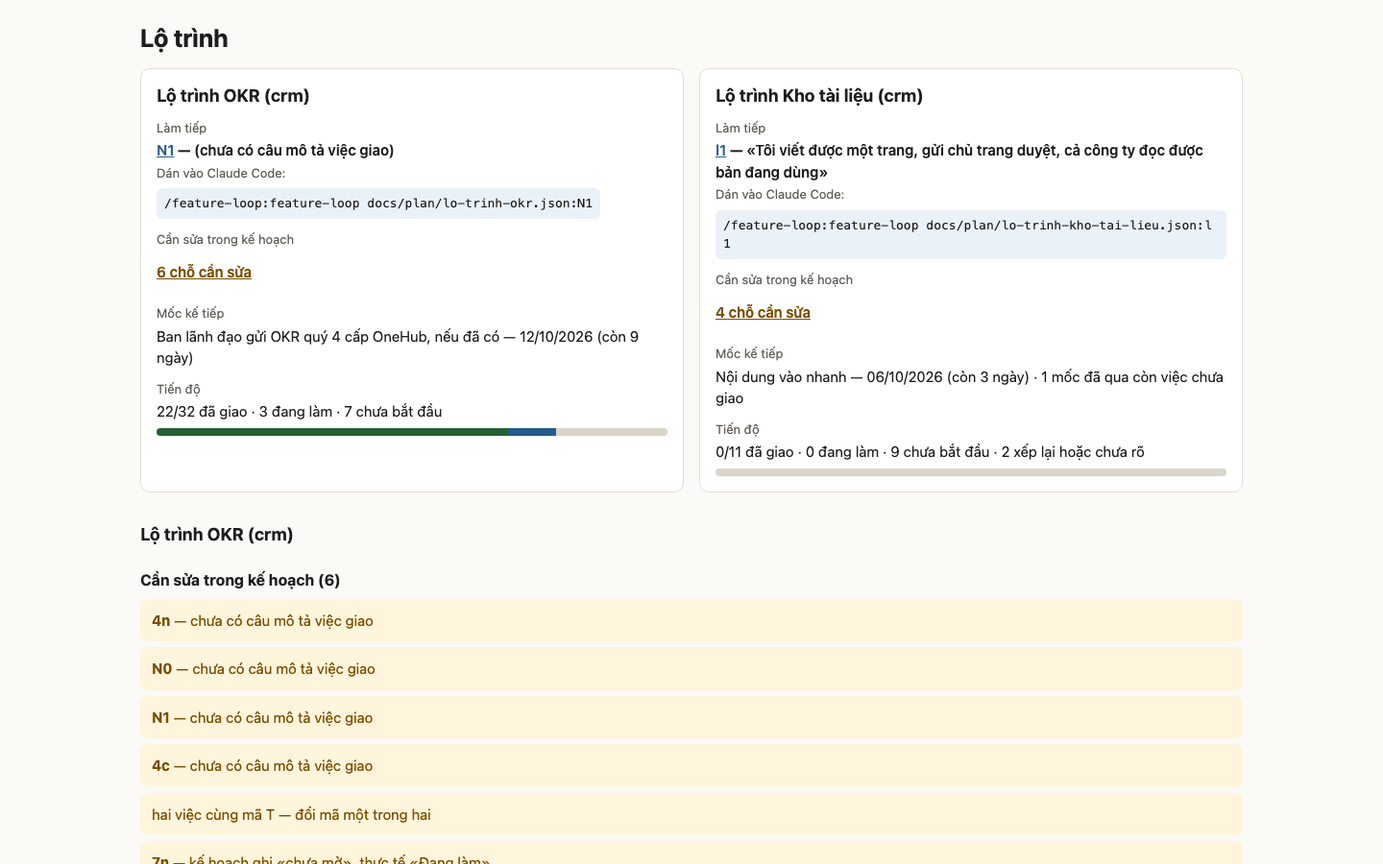
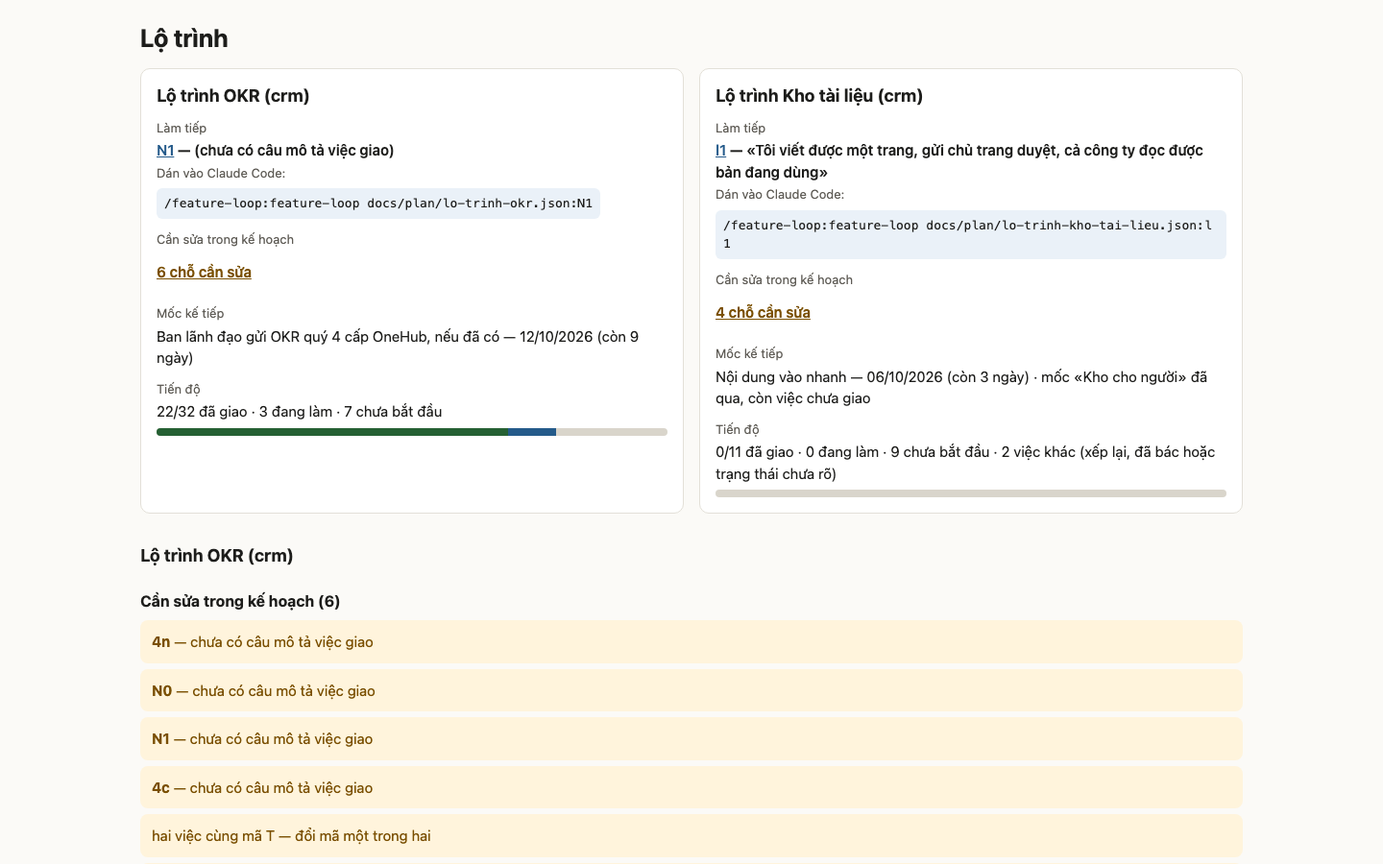
fix(lo-trinh): lượt chấm 2 — hàng kế cùng luật lớp phân tích, mốc đã qua nêu tên, ngày mốc lạ giữ chữ dự phòng, nhóm tiến độ khác ghi rõ

diff --git a/_acceptance/trang-lo-trinh-doc-mot-phut/mau/hai-lo-trinh.html b/_acceptance/trang-lo-trinh-doc-mot-phut/mau/hai-lo-trinh.html
@@ -48,7 +48,7 @@ tr{border:1px solid var(--ln);border-radius:10px;margin:10px 0;padding:6px 0;bac
 <div class="o"><span class="nhan">Làm tiếp</span><span class="ke"><a href="#lt2-h-l1">l1</a> — «Tôi viết được một trang, gửi chủ trang duyệt, cả công ty đọc được bản đang dùng»</span><br><span class="mu nho">Dán vào Claude Code:</span> <span class="lenh">/feature-loop:feature-loop docs/plan/lo-trinh-kho-tai-lieu.json:l1</span></div>
 <div class="o so-co"><span class="nhan">Cần sửa trong kế hoạch</span><a href="#lt2-co">4 chỗ cần sửa</a></div>
 <div class="o"><span class="nhan">Mốc kế tiếp</span><span id="lt2-moc-ke">Xem dải mốc bên dưới.</span></div>
-<div class="o"><span class="nhan">Tiến độ</span>0/11 đã giao · 0 đang làm · 9 chưa bắt đầu · 2 xếp lại hoặc chưa rõ<div class="thanh" aria-hidden="true"><i class="g" style="width:0.0%"></i><i class="l" style="width:0.0%"></i></div></div>
+<div class="o"><span class="nhan">Tiến độ</span>0/11 đã giao · 0 đang làm · 9 chưa bắt đầu · 2 việc khác (xếp lại, đã bác hoặc trạng thái chưa rõ)<div class="thanh" aria-hidden="true"><i class="g" style="width:0.0%"></i><i class="l" style="width:0.0%"></i></div></div>
 </section></div>
 <section id="lt1"><h2>Lộ trình OKR (crm)</h2>
 <h3 id="lt1-co">Cần sửa trong kế hoạch (6)</h3><ul class="co-ds"><li><a href="#lt1-h-4n"><b>4n</b> — chưa có câu mô tả việc giao</a></li><li><a href="#lt1-h-N0"><b>N0</b> — chưa có câu mô tả việc giao</a></li><li><a href="#lt1-h-N1"><b>N1</b> — chưa có câu mô tả việc giao</a></li><li><a href="#lt1-h-4c"><b>4c</b> — chưa có câu mô tả việc giao</a></li><li><span>hai việc cùng mã T — đổi mã một trong hai</span></li><li><a href="#lt1-h-7n"><b>7n</b> — kế hoạch ghi «chưa mở», thực tế «Đang làm»</a></li></ul>
@@ -113,7 +113,7 @@ tr{border:1px solid var(--ln);border-radius:10px;margin:10px 0;padding:6px 0;bac
 <details><summary>132 hồ sơ không thuộc kế hoạch nào</summary><p class="mu nho">Sửa lỗi, sự cố, việc giao thẳng — hợp lệ, liệt kê để đủ.</p><ul><li><code>ho-so-ngoai-001</code></li><li><code>ho-so-ngoai-002</code></li><li><code>ho-so-ngoai-003</code></li><li><code>ho-so-ngoai-004</code></li><li><code>ho-so-ngoai-005</code></li><li><code>ho-so-ngoai-006</code></li><li><code>ho-so-ngoai-007</code></li><li><code>ho-so-ngoai-008</code></li><li><code>ho-so-ngoai-009</code></li><li><code>ho-so-ngoai-010</code></li><li><code>ho-so-ngoai-011</code></li><li><code>ho-so-ngoai-012</code></li><li><code>ho-so-ngoai-013</code></li><li><code>ho-so-ngoai-014</code></li><li><code>ho-so-ngoai-015</code></li><li><code>ho-so-ngoai-016</code></li><li><code>ho-so-ngoai-017</code></li><li><code>ho-so-ngoai-018</code></li><li><code>ho-so-ngoai-019</code></li><li><code>ho-so-ngoai-020</code></li><li><code>ho-so-ngoai-021</code></li><li><code>ho-so-ngoai-022</code></li><li><code>ho-so-ngoai-023</code></li><li><code>ho-so-ngoai-024</code></li><li><code>ho-so-ngoai-025</code></li><li><code>ho-so-ngoai-026</code></li><li><code>ho-so-ngoai-027</code></li><li><code>ho-so-ngoai-028</code></li><li><code>ho-so-ngoai-029</code></li><li><code>ho-so-ngoai-030</code></li><li><code>ho-so-ngoai-031</code></li><li><code>ho-so-ngoai-032</code></li><li><code>ho-so-ngoai-033</code></li><li><code>ho-so-ngoai-034</code></li><li><code>ho-so-ngoai-035</code></li><li><code>ho-so-ngoai-036</code></li><li><code>ho-so-ngoai-037</code></li><li><code>ho-so-ngoai-038</code></li><li><code>ho-so-ngoai-039</code></li><li><code>ho-so-ngoai-040</code></li><li><code>ho-so-ngoai-041</code></li><li><code>ho-so-ngoai-042</code></li><li><code>ho-so-ngoai-043</code></li><li><code>ho-so-ngoai-044</code></li><li><code>ho-so-ngoai-045</code></li><li><code>ho-so-ngoai-046</code></li><li><code>ho-so-ngoai-047</code></li><li><code>ho-so-ngoai-048</code></li><li><code>ho-so-ngoai-049</code></li><li><code>ho-so-ngoai-050</code></li><li><code>ho-so-ngoai-051</code></li><li><code>ho-so-ngoai-052</code></li><li><code>ho-so-ngoai-053</code></li><li><code>ho-so-ngoai-054</code></li><li><code>ho-so-ngoai-055</code></li><li><code>ho-so-ngoai-056</code></li><li><code>ho-so-ngoai-057</code></li><li><code>ho-so-ngoai-058</code></li><li><code>ho-so-ngoai-059</code></li><li><code>ho-so-ngoai-060</code></li><li><code>ho-so-ngoai-061</code></li><li><code>ho-so-ngoai-062</code></li><li><code>ho-so-ngoai-063</code></li><li><code>ho-so-ngoai-064</code></li><li><code>ho-so-ngoai-065</code></li><li><code>ho-so-ngoai-066</code></li><li><code>ho-so-ngoai-067</code></li><li><code>ho-so-ngoai-068</code></li><li><code>ho-so-ngoai-069</code></li><li><code>ho-so-ngoai-070</code></li><li><code>ho-so-ngoai-071</code></li><li><code>ho-so-ngoai-072</code></li><li><code>ho-so-ngoai-073</code></li><li><code>ho-so-ngoai-074</code></li><li><code>ho-so-ngoai-075</code></li><li><code>ho-so-ngoai-076</code></li><li><code>ho-so-ngoai-077</code></li><li><code>ho-so-ngoai-078</code></li><li><code>ho-so-ngoai-079</code></li><li><code>ho-so-ngoai-080</code></li><li><code>ho-so-ngoai-081</code></li><li><code>ho-so-ngoai-082</code></li><li><code>ho-so-ngoai-083</code></li><li><code>ho-so-ngoai-084</code></li><li><code>ho-so-ngoai-085</code></li><li><code>ho-so-ngoai-086</code></li><li><code>ho-so-ngoai-087</code></li><li><code>ho-so-ngoai-088</code></li><li><code>ho-so-ngoai-089</code></li><li><code>ho-so-ngoai-090</code></li><li><code>ho-so-ngoai-091</code></li><li><code>ho-so-ngoai-092</code></li><li><code>ho-so-ngoai-093</code></li><li><code>ho-so-ngoai-094</code></li><li><code>ho-so-ngoai-095</code></li><li><code>ho-so-ngoai-096</code></li><li><code>ho-so-ngoai-097</code></li><li><code>ho-so-ngoai-098</code></li><li><code>ho-so-ngoai-099</code></li><li><code>ho-so-ngoai-100</code></li><li><code>ho-so-ngoai-101</code></li><li><code>ho-so-ngoai-102</code></li><li><code>ho-so-ngoai-103</code></li><li><code>ho-so-ngoai-104</code></li><li><code>ho-so-ngoai-105</code></li><li><code>ho-so-ngoai-106</code></li><li><code>ho-so-ngoai-107</code></li><li><code>ho-so-ngoai-108</code></li><li><code>ho-so-ngoai-109</code></li><li><code>ho-so-ngoai-110</code></li><li><code>ho-so-ngoai-111</code></li><li><code>ho-so-ngoai-112</code></li><li><code>ho-so-ngoai-113</code></li><li><code>ho-so-ngoai-114</code></li><li><code>ho-so-ngoai-115</code></li><li><code>ho-so-ngoai-116</code></li><li><code>ho-so-ngoai-117</code></li><li><code>ho-so-ngoai-118</code></li><li><code>ho-so-ngoai-119</code></li><li><code>ho-so-ngoai-120</code></li><li><code>ho-so-ngoai-121</code></li><li><code>ho-so-ngoai-122</code></li><li><code>ho-so-ngoai-123</code></li><li><code>ho-so-ngoai-124</code></li><li><code>ho-so-ngoai-125</code></li><li><code>ho-so-ngoai-126</code></li><li><code>ho-so-ngoai-127</code></li><li><code>ho-so-ngoai-128</code></li><li><code>ho-so-ngoai-129</code></li><li><code>ho-so-ngoai-130</code></li><li><code>ho-so-ngoai-131</code></li><li><code>ho-so-ngoai-132</code></li></ul></details>
 </main>
 <script>(function(){var d=new Date();var h=Date.UTC(d.getFullYear(),d.getMonth(),d.getDate());
-document.querySelectorAll('ol.moc').forEach(function(ol){var ke=null;var tre=0;ol.querySelectorAll('li[data-ngay]').forEach(function(li){var p=li.getAttribute('data-ngay').split('-');var t=Date.UTC(+p[0],+p[1]-1,+p[2]);var n=Math.round((t-h)/864e5);var s=li.querySelector('.con');if(isNaN(n))return;if(n<0){if(li.hasAttribute('data-con-viec')){tre++;li.classList.add('tre');if(s)s.textContent='đã qua — còn việc chưa giao';}else{li.classList.add('qua');if(s)s.textContent='đã qua';}}else{if(s)s.textContent=n===0?'hôm nay':'còn '+n+' ngày';if(!ke){ke=li;li.classList.add('ke-tiep');}}});
-var o=document.getElementById(ol.getAttribute('data-the'));if(o){o.textContent=(ke?ke.getAttribute('data-ten')+' — '+ke.getAttribute('data-ngay').split('-').reverse().join('/')+' ('+ke.querySelector('.con').textContent+')':'Không còn mốc nào phía trước.')+(tre?' · '+tre+' mốc đã qua còn việc chưa giao':'');}});})();</script>
+document.querySelectorAll('ol.moc').forEach(function(ol){var ke=null;var tre=[];var hong=0;ol.querySelectorAll('li[data-ngay]').forEach(function(li){var p=li.getAttribute('data-ngay').split('-');var t=Date.UTC(+p[0],+p[1]-1,+p[2]);var n=Math.round((t-h)/864e5);var s=li.querySelector('.con');if(p.length!==3||isNaN(n)){hong++;return;}if(n<0){if(li.hasAttribute('data-con-viec')){tre.push(li.getAttribute('data-ten'));li.classList.add('tre');if(s)s.textContent='đã qua — còn việc chưa giao';}else{li.classList.add('qua');if(s)s.textContent='đã qua';}}else{if(s)s.textContent=n===0?'hôm nay':'còn '+n+' ngày';if(!ke){ke=li;li.classList.add('ke-tiep');}}});
+var o=document.getElementById(ol.getAttribute('data-the'));if(!o||(!ke&&hong))return;o.textContent=(ke?ke.getAttribute('data-ten')+' — '+ke.getAttribute('data-ngay').split('-').reverse().join('/')+' ('+ke.querySelector('.con').textContent+')':'Không còn mốc nào phía trước.')+(tre.length===1?' · mốc «'+tre[0]+'» đã qua, còn việc chưa giao':tre.length?' · '+tre.length+' mốc đã qua còn việc chưa giao (sớm nhất: «'+tre[0]+'»)':'');});})();</script>
 </body>
 </html>

diff --git a/_acceptance/viec-ke-theo-plan/mau/lo-trinh-crm-okr.html b/_acceptance/viec-ke-theo-plan/mau/lo-trinh-crm-okr.html
@@ -88,7 +88,7 @@ tr{border:1px solid var(--ln);border-radius:10px;margin:10px 0;padding:6px 0;bac
 <p class="mu nho">Vẽ từ <code>docs/plan/lo-trinh-okr.json</code> và hồ sơ nghiệm thu; máy vẽ lại mỗi lần một cổng nghiệm thu đóng, trạng thái từng hàng lấy từ hồ sơ, không gõ tay. Đổi kế hoạch bằng PR vào tệp kế hoạch.</p>
 </main>
 <script>(function(){var d=new Date();var h=Date.UTC(d.getFullYear(),d.getMonth(),d.getDate());
-document.querySelectorAll('ol.moc').forEach(function(ol){var ke=null;var tre=0;ol.querySelectorAll('li[data-ngay]').forEach(function(li){var p=li.getAttribute('data-ngay').split('-');var t=Date.UTC(+p[0],+p[1]-1,+p[2]);var n=Math.round((t-h)/864e5);var s=li.querySelector('.con');if(isNaN(n))return;if(n<0){if(li.hasAttribute('data-con-viec')){tre++;li.classList.add('tre');if(s)s.textContent='đã qua — còn việc chưa giao';}else{li.classList.add('qua');if(s)s.textContent='đã qua';}}else{if(s)s.textContent=n===0?'hôm nay':'còn '+n+' ngày';if(!ke){ke=li;li.classList.add('ke-tiep');}}});
-var o=document.getElementById(ol.getAttribute('data-the'));if(o){o.textContent=(ke?ke.getAttribute('data-ten')+' — '+ke.getAttribute('data-ngay').split('-').reverse().join('/')+' ('+ke.querySelector('.con').textContent+')':'Không còn mốc nào phía trước.')+(tre?' · '+tre+' mốc đã qua còn việc chưa giao':'');}});})();</script>
+document.querySelectorAll('ol.moc').forEach(function(ol){var ke=null;var tre=[];var hong=0;ol.querySelectorAll('li[data-ngay]').forEach(function(li){var p=li.getAttribute('data-ngay').split('-');var t=Date.UTC(+p[0],+p[1]-1,+p[2]);var n=Math.round((t-h)/864e5);var s=li.querySelector('.con');if(p.length!==3||isNaN(n)){hong++;return;}if(n<0){if(li.hasAttribute('data-con-viec')){tre.push(li.getAttribute('data-ten'));li.classList.add('tre');if(s)s.textContent='đã qua — còn việc chưa giao';}else{li.classList.add('qua');if(s)s.textContent='đã qua';}}else{if(s)s.textContent=n===0?'hôm nay':'còn '+n+' ngày';if(!ke){ke=li;li.classList.add('ke-tiep');}}});
+var o=document.getElementById(ol.getAttribute('data-the'));if(!o||(!ke&&hong))return;o.textContent=(ke?ke.getAttribute('data-ten')+' — '+ke.getAttribute('data-ngay').split('-').reverse().join('/')+' ('+ke.querySelector('.con').textContent+')':'Không còn mốc nào phía trước.')+(tre.length===1?' · mốc «'+tre[0]+'» đã qua, còn việc chưa giao':tre.length?' · '+tre.length+' mốc đã qua còn việc chưa giao (sớm nhất: «'+tre[0]+'»)':'');});})();</script>
 </body>
 </html>

diff --git a/_acceptance/trang-lo-trinh-doc-mot-phut/evidence-report.md b/_acceptance/trang-lo-trinh-doc-mot-phut/evidence-report.md
@@ -1,19 +1,19 @@
 ---
 schema_version: 2
 feature_slug: trang-lo-trinh-doc-mot-phut
-verdict: PENDING-JUDGMENT
+verdict: REJECT
 failed_evals: []
 reason:
 verified_by: fresh-context verification subagent
 enforcement_mode: strict
 bypass_used: false
-verified_commit: 7116c022e703872d17339f003f089ed132935749
+verified_commit: 9fc6f5c027ab7182e97512519fd09222a11c41ee
 human_signoff:
 ---
 
 # Evidence Report: trang-lo-trinh-doc-mot-phut
 
-Tất cả eval máy đều xanh. Còn một mục judgment (E11) hội đồng đề xuất không đạt và một thành viên chưa chắc, nên người quyết ở Cổng 2.
+Lượt chấm 2. Không eval máy nào đỏ (13 eval máy xanh, 10 lệnh suite xanh), nên `failed_evals` để trống. Verdict là REJECT vì bốn finding trong hợp đồng chưa đóng: ba finding nói E5 ghim dòng «PASS: LT-94» mà lệnh của nó không bao giờ in ra (vế tĩnh của AC-5 chưa có bằng chứng máy, dù E5 xanh nhờ bảy ca LTT), và một finding nói liên kết «Làm tiếp» vẫn có thể trỏ nhầm hàng khi hai hàng trùng mã. E11 (judgment) vẫn chưa ai chốt. Chi tiết ở `review-findings.md`.
 
 | Eval | Criterion | Executor | Verdict |
 |---|---|---|---|
@@ -28,217 +28,218 @@ Tất cả eval máy đều xanh. Còn một mục judgment (E11) hội đồng 
 | E8b | AC-8 | test | PASS |
 | E9 | AC-9 | test | PASS |
 | E10 | AC-10 | test | PASS |
-| E11 | AC-11 | judgment | PENDING-JUDGMENT |
+| E11 | AC-11 | judgment | UNCERTAIN |
 | E11b | AC-11 | test | PASS |
 | E12 | AC-12 | test | PASS |
+
+Ghi chú về E5: bảng ghi PASS theo kết quả lệnh. Nhưng lệnh của E5 chạy bộ `xem-trang-lo-trinh` chỉ in các dòng LTT, còn dòng ghim «PASS: LT-94» (vế tĩnh của AC-5) nằm ở bộ `lo-trinh`. Vì vậy PASS này chưa phủ vế tĩnh; xem finding trong hợp đồng AC-5.
 
 ## Evidence
 
 - eval: E1
-  run_id: minted-trang-lo-trinh-doc-mot-phut-E1-r1
+  run_id: minted-trang-lo-trinh-doc-mot-phut-E1-r2
   exit_code: 0
   baseline: green
   verifier: config:executors.test.lo_trinh
-  verified_at: 2026-10-03T15:50:54Z
+  verified_at: 2026-10-03T16:29:05Z
   output: |
     node tests/scripts/lo-trinh.test.mjs
     Results: 140 passed, 0 failed (lo-trinh)
 
 - eval: E2
-  run_id: minted-trang-lo-trinh-doc-mot-phut-E2-r1
+  run_id: minted-trang-lo-trinh-doc-mot-phut-E2-r2
   exit_code: 0
   baseline: green
   verifier: config:executors.test.lo_trinh
-  verified_at: 2026-10-03T15:50:54Z
+  verified_at: 2026-10-03T16:29:05Z
   output: |
     node tests/scripts/lo-trinh.test.mjs
     Results: 140 passed, 0 failed (lo-trinh)
 
 - eval: E3
-  run_id: minted-trang-lo-trinh-doc-mot-phut-E3-r1
+  run_id: minted-trang-lo-trinh-doc-mot-phut-E3-r2
   exit_code: 0
   baseline: green
   verifier: config:executors.test.lo_trinh
-  verified_at: 2026-10-03T15:50:54Z
+  verified_at: 2026-10-03T16:29:05Z
   output: |
     node tests/scripts/lo-trinh.test.mjs
     Results: 140 passed, 0 failed (lo-trinh)
 
 - eval: E4
-  run_id: minted-trang-lo-trinh-doc-mot-phut-E4-r1
+  run_id: minted-trang-lo-trinh-doc-mot-phut-E4-r2
   exit_code: 0
   baseline: green
   verifier: config:executors.test.lo_trinh
-  verified_at: 2026-10-03T15:50:54Z
+  verified_at: 2026-10-03T16:29:05Z
   output: |
     node tests/scripts/lo-trinh.test.mjs
     Results: 140 passed, 0 failed (lo-trinh)
 
 - eval: E5
-  run_id: minted-trang-lo-trinh-doc-mot-phut-E5-r1
+  run_id: minted-trang-lo-trinh-doc-mot-phut-E5-r2
   exit_code: 0
   baseline: red
   verifier: config:executors.test.lo_trinh_trang
-  verified_at: 2026-10-03T15:50:54Z
+  verified_at: 2026-10-03T16:29:05Z
   output: |
     node tests/scripts/xem-trang-lo-trinh.test.mjs
     Results: 7 passed, 0 failed (xem-trang-lo-trinh)
 
 - eval: E6
-  run_id: minted-trang-lo-trinh-doc-mot-phut-E6-r1
+  run_id: minted-trang-lo-trinh-doc-mot-phut-E6-r2
   exit_code: 0
   baseline: green
   verifier: config:executors.test.lo_trinh
-  verified_at: 2026-10-03T15:50:54Z
+  verified_at: 2026-10-03T16:29:05Z
   output: |
     node tests/scripts/lo-trinh.test.mjs
     Results: 140 passed, 0 failed (lo-trinh)
 
 - eval: E7
-  run_id: minted-trang-lo-trinh-doc-mot-phut-E7-r1
+  run_id: minted-trang-lo-trinh-doc-mot-phut-E7-r2
   exit_code: 0
   baseline: red
   verifier: config:executors.test.lo_trinh_trang
-  verified_at: 2026-10-03T15:50:54Z
+  verified_at: 2026-10-03T16:29:05Z
   output: |
     node tests/scripts/xem-trang-lo-trinh.test.mjs
     Results: 7 passed, 0 failed (xem-trang-lo-trinh)
 
 - eval: E8
-  run_id: minted-trang-lo-trinh-doc-mot-phut-E8-r1
+  run_id: minted-trang-lo-trinh-doc-mot-phut-E8-r2
   exit_code: 0
   baseline: green
   verifier: config:executors.test.lo_trinh
-  verified_at: 2026-10-03T15:50:54Z
+  verified_at: 2026-10-03T16:29:05Z
   output: |
     node tests/scripts/lo-trinh.test.mjs
     Results: 140 passed, 0 failed (lo-trinh)
 
 - eval: E8b
-  run_id: minted-trang-lo-trinh-doc-mot-phut-E8b-r1
+  run_id: minted-trang-lo-trinh-doc-mot-phut-E8b-r2
   exit_code: 0
   baseline: red
   verifier: config:executors.test.lo_trinh_trang
-  verified_at: 2026-10-03T15:50:54Z
+  verified_at: 2026-10-03T16:29:05Z
   output: |
     node tests/scripts/xem-trang-lo-trinh.test.mjs
     Results: 7 passed, 0 failed (xem-trang-lo-trinh)
 
 - eval: E9
-  run_id: minted-trang-lo-trinh-doc-mot-phut-E9-r1
+  run_id: minted-trang-lo-trinh-doc-mot-phut-E9-r2
   exit_code: 0
   baseline: green
   verifier: config:executors.test.lo_trinh
-  verified_at: 2026-10-03T15:50:54Z
+  verified_at: 2026-10-03T16:29:05Z
   output: |
     node tests/scripts/lo-trinh.test.mjs
     Results: 140 passed, 0 failed (lo-trinh)
 
 - eval: E10
-  run_id: minted-trang-lo-trinh-doc-mot-phut-E10-r1
+  run_id: minted-trang-lo-trinh-doc-mot-phut-E10-r2
   exit_code: 0
   baseline: green
   verifier: config:executors.test.lo_trinh
-  verified_at: 2026-10-03T15:50:54Z
+  verified_at: 2026-10-03T16:29:05Z
   output: |
     node tests/scripts/lo-trinh.test.mjs
     Results: 140 passed, 0 failed (lo-trinh)
 
 - eval: E11b
-  run_id: minted-trang-lo-trinh-doc-mot-phut-E11b-r1
+  run_id: minted-trang-lo-trinh-doc-mot-phut-E11b-r2
   exit_code: 0
   baseline: green
   verifier: config:executors.test.lo_trinh
-  verified_at: 2026-10-03T15:50:54Z
+  verified_at: 2026-10-03T16:29:05Z
   output: |
     node tests/scripts/lo-trinh.test.mjs
     Results: 140 passed, 0 failed (lo-trinh)
 
 - eval: E12
-  run_id: minted-trang-lo-trinh-doc-mot-phut-E12-r1
+  run_id: minted-trang-lo-trinh-doc-mot-phut-E12-r2
   exit_code: 0
   baseline: green
   verifier: config:executors.test.lo_trinh
-  verified_at: 2026-10-03T15:50:54Z
+  verified_at: 2026-10-03T16:29:05Z
   output: |
     node tests/scripts/lo-trinh.test.mjs
     Results: 140 passed, 0 failed (lo-trinh)
 
 ### Judgment
 
-Hội đồng đề xuất cho E11 là FAIL (hai thành viên FAIL, một chưa chắc). Đây chỉ là đề xuất, người quyết ở Cổng 2. Mục này không có lệnh máy nên không có run_id.
+Hội đồng đề xuất cho E11 là UNCERTAIN: cả ba thành viên đọc được đủ ba ý từ hai ảnh nhưng không chắc vế «người ngoài nhóm kit không phải hỏi nghĩa chữ nào». Đây chỉ là đề xuất, người quyết ở Cổng 2. Mục này không có lệnh máy nên không có run_id.
 
 - eval: E11
   judged_by: judge panel (fresh context) — domain-correctness, operational-feasibility, spec-alignment
-  panel_proposal: FAIL
-  verdict: PENDING-JUDGMENT
+  panel_proposal: UNCERTAIN
+  verdict: UNCERTAIN
+  rationale: Từ hai ảnh đọc được đủ ba ý cho cả hai lộ trình (OKR: làm tiếp N1 chưa có câu mô tả, mốc 12/10/2026 còn 9 ngày, 6 chỗ cần sửa; Kho tài liệu: làm tiếp l1 kèm câu, mốc 06/10/2026 còn 3 ngày, 4 chỗ cần sửa). Hội đồng không phán được vế chữ nội bộ vì thiếu phiếu đọc của người ngoài nhóm kit và thiếu điều khoản hợp đồng về việc làm tiếp không có câu mô tả.
   votes:
-    - domain-correctness: FAIL — Từ ảnh, người đọc đọc được mã làm tiếp, mốc và số chỗ lệch cho cả hai lộ trình (N1 · 12/10 còn 9 ngày · 6 chỗ lệch; l1 · 06/10 còn 3 ngày · không lệch). Nhưng lộ trình OKR không có câu mô tả cho N1 («chưa có câu mô tả việc giao»), nên «việc làm tiếp là gì» không trả lời được, và N1 cũng nằm trong danh sách 6 chỗ lệch. Thẻ Kho tài liệu ghi «Không có chỗ lệch» và «0/11 đã giao», trong khi HTML cùng trang ghi 7 hàng có trạng thái máy không hiểu (kế hoạch ghi «xong», «đã lên onehub») và mốc 01/10 đã qua mà không hiện. Còn có chữ người ngoài nhóm kit phải hỏi nghĩa: «chỗ lệch», «hai hàng cùng mã T», «hồ sơ ghi», mã N1/4n/N0, lệnh /feature-loop.
-    - operational-feasibility: FAIL — Từ ảnh đọc được đủ ba điều cho từng lộ trình. OKR: làm tiếp N1 nhưng chưa có câu mô tả, mốc kế tiếp 12/10/2026 còn 9 ngày, 6 chỗ lệch. Kho tài liệu: làm tiếp l1 với câu «Tôi viết được một trang…», mốc 06/10/2026 còn 3 ngày, không có chỗ lệch. Số ngày khớp ngày đóng băng 2026-10-03. Nhưng ảnh 1440 vẫn có chữ người ngoài nhóm kit phải hỏi nghĩa. «hai hàng cùng mã T» không nói hàng nào sai và phải sửa gì. «hồ sơ ghi “Đang làm”» dùng từ «hồ sơ» của kit mà không giải thích. Dòng lệnh `/feature-loop:feature-loop …` và các mã trần 4n, N0, 4c cũng không có giải thích nào trên màn đầu.
-    - spec-alignment: UNCERTAIN — Từ ảnh đọc được cả hai lộ trình. OKR: làm tiếp N1 nhưng trang ghi «(chưa có câu mô tả việc giao)» nên không có câu để đọc; mốc 12/10/2026 còn 9 ngày; 6 chỗ lệch. Kho tài liệu: l1 kèm câu «Tôi viết được một trang…»; mốc 06/10/2026 còn 3 ngày; không có chỗ lệch. Vế "có chữ nào người ngoài nhóm kit phải hỏi nghĩa" không phán được. Các chữ như "chỗ lệch", "hai hàng cùng mã T", "hồ sơ ghi «Đang làm»", dòng lệnh `/feature-loop:feature-loop …` và "OneHub" có vẻ là tiếng nội bộ. Ngưỡng thế nào là "phải hỏi" nằm ở hợp đồng và người đọc thật, hai thứ này không có trong ba tệp đầu vào.
+    - domain-correctness: UNCERTAIN — Từ hai ảnh đọc được đủ ba ý. OKR: làm tiếp N1 (không có câu mô tả), mốc 12/10/2026 còn 9 ngày, 6 chỗ cần sửa. Kho tài liệu: làm tiếp l1 kèm câu, mốc 06/10/2026 còn 3 ngày, 4 chỗ cần sửa. Các con số khớp nhau (22+3+7=32; 0+0+9+2=11; ngày đếm đúng từ 03/10). Nhưng tôi không chắc hai điểm này. (1) Việc làm tiếp của OKR chỉ có mã N1 và dòng «chưa có câu mô tả việc giao», nên người đọc không biết việc đó là gì; không có hợp đồng nên tôi không biết đây là kết quả chấp nhận được hay là lỗi. (2) Có chữ người ngoài nhóm làm kit có thể phải hỏi nghĩa: «xếp lại hoặc chưa rõ», lệnh /feature-loop:feature-loop …:N1, «1 mốc đã qua còn việc chưa giao» (không nói mốc nào). Với Kho tài liệu, ảnh còn cho thấy l1 vừa là việc làm tiếp vừa nằm trong «4 chỗ cần sửa» mà ảnh không mở ra, nên không kiểm được nó đúng hay sai.
+    - operational-feasibility: UNCERTAIN — Hai ảnh trả lời được phần số liệu. OKR: làm tiếp N1 nhưng chưa có câu mô tả việc giao, mốc kế tiếp 12/10/2026 (còn 9 ngày), 6 chỗ cần sửa. Kho tài liệu: làm tiếp l1 kèm câu «Tôi viết được một trang…», mốc kế tiếp «Nội dung vào nhanh» 06/10/2026 (còn 3 ngày, 1 mốc đã qua còn việc), 4 chỗ cần sửa. Vế cuối (người ngoài nhóm kit không phải hỏi nghĩa chữ nào) hợp lý có hai cách đọc. Cụm «2 xếp lại hoặc chưa rõ» gộp hai nghĩa khác nhau, «Dán vào Claude Code» với lệnh `/feature-loop:feature-loop` là chữ của nhóm kit, và «chỗ cần sửa» không nói sửa ở đâu khi chỉ nhìn ảnh. Với OKR, câu mô tả việc làm tiếp bị trống nên câu hỏi «việc làm tiếp là gì» chỉ trả lời được «N1, chưa có mô tả».
+    - spec-alignment: UNCERTAIN — Ảnh 1440 và 375 cho đọc đủ ba thứ. OKR: làm tiếp N1 nhưng ghi thẳng «chưa có câu mô tả việc giao»; mốc kế tiếp 12/10/2026, còn 9 ngày; 6 chỗ cần sửa. Kho tài liệu: làm tiếp l1 kèm câu mô tả; mốc kế tiếp «Nội dung vào nhanh» 06/10/2026, còn 3 ngày, cộng 1 mốc đã qua còn việc chưa giao; 4 chỗ cần sửa. Vế chữ thì không chắc: «2 xếp lại hoặc chưa rõ» gộp hai nghĩa và chưa nói «xếp lại» là gì, còn «1 mốc đã qua còn việc chưa giao» không nêu mốc nào. Tôi không có hợp đồng và không có kết quả đọc thử của người ngoài nhóm kit để biết họ có phải hỏi nghĩa hay không.
   required_evidence:
-    - (domain-correctness) Ảnh hoặc HTML của thẻ OKR có câu mô tả thật cho việc «Làm tiếp», hoặc việc làm tiếp được chọn từ hàng có câu mô tả. Lấy từ chạy lại bộ vẽ `tests/scripts/lo-trinh-do-trang.mjs --chup` trên fixture crm đã sửa, rồi đọc `mau/hai-lo-trinh--1440.png`.
-    - (domain-correctness) Thẻ Kho tài liệu trong `mau/hai-lo-trinh--1440.png` hiện số hàng trạng thái không hiểu (7) hoặc cờ vàng thay cho «Không có chỗ lệch». Đọc ở đó, hoặc ở khối `.loi` trong `mau/hai-lo-trinh.html`, để thấy thẻ và thân trang không mâu thuẫn.
-    - (domain-correctness) Một phép thử người đọc không thuộc nhóm kit (bản ghi hỏi-đáp hoặc chấm của hội đồng trên cùng hai ảnh) cho thấy không có chữ nào phải hỏi nghĩa. Các chữ cần kiểm: «chỗ lệch», «hai hàng cùng mã T», «hồ sơ ghi», mã việc. Đặt trong `_acceptance/trang-lo-trinh-doc-mot-phut/`.
-    - (operational-feasibility) Ảnh `_acceptance/trang-lo-trinh-doc-mot-phut/mau/hai-lo-trinh--1440.png` chụp lại sau khi sửa bộ vẽ, màn đầu không còn dòng «hai hàng cùng mã T». Dòng đó phải thành câu nói rõ việc cần làm, ví dụ «hai việc cùng mang mã T — đổi mã một trong hai». Lấy bằng `tests/scripts/lo-trinh-do-trang.mjs --chup`.
-    - (operational-feasibility) Cùng ảnh 1440 đó, dòng 7n không còn chữ «hồ sơ» trần. Chữ này phải được nói bằng tiếng người dùng, ví dụ «kế hoạch ghi chưa mở, nhưng việc này đang được làm». Hoặc phải có chú giải nhìn thấy ngay trên màn đầu.
-    - (operational-feasibility) Ảnh 375 và 1440 mới, trong đó dòng lệnh `/feature-loop:feature-loop …` có nhãn nói rõ đây là lệnh để dán vào phiên Claude Code làm việc này. Hoặc một xác nhận từ người đọc ngoài nhóm kit rằng họ không cần hỏi nghĩa.
-    - (spec-alignment) Phiếu đọc của ít nhất một người ngoài nhóm kit (CRM/OKR owner). Họ chỉ nhìn ảnh `_acceptance/trang-lo-trinh-doc-mot-phut/mau/hai-lo-trinh--1440.png` và `hai-lo-trinh--375.png`, rồi liệt kê từng chữ họ phải hỏi nghĩa. Nếu danh sách rỗng thì thành PASS, nếu có "chỗ lệch" / "mã T" / "hồ sơ" thì thành FAIL.
-    - (spec-alignment) Câu AC-11 trong `_acceptance/trang-lo-trinh-doc-mot-phut/contract.md` nói rõ việc làm tiếp của lộ trình OKR (N1, chưa có câu mô tả) có tính là đáp ứng "mã + câu" hay không. Nếu hợp đồng chấp nhận "chưa có câu mô tả" là câu trả lời hợp lệ thì vế đó thành PASS.
-    - (spec-alignment) Danh sách từ nội bộ cấm hoặc được phép (glossary tiếng người của hợp đồng, ví dụ mục `_Avoid_` trong `CONTEXT.md`) đối chiếu với các chữ trên màn đầu. Danh sách này cho ngưỡng "phải hỏi nghĩa" để verdict không còn dựa vào phỏng đoán.
+    - (domain-correctness) Phán quyết của một người đọc ngoài nhóm kit (ví dụ người dùng crm): liệt kê những chữ họ phải hỏi nghĩa khi đọc hai ảnh hai-lo-trinh--1440.png và hai-lo-trinh--375.png. Nếu danh sách chỉ gồm thuật ngữ nghiệp vụ crm (OKR, OneHub) thì verdict đổi sang PASS.
+    - (domain-correctness) Định nghĩa «việc làm tiếp» trong contract AC-11 (contract.md của trang-lo-trinh-doc-mot-phut), cho biết một hàng không có câu mô tả như N1 có được chọn làm việc làm tiếp hay không. Nếu được phép và có cờ đi kèm thì tiêu chí «mã + câu» coi như đạt với OKR.
+    - (domain-correctness) Ảnh chụp phần «Cần sửa trong kế hoạch» của Kho tài liệu (4 chỗ) gần đầu trang để thấy l1 bị cờ «đã lên onehub» ngay cạnh thẻ làm tiếp. Có ảnh này thì kiểm được việc làm tiếp l1 có mâu thuẫn với dữ liệu hay không.
+    - (operational-feasibility) Biên bản đọc ảnh của một người đọc ngoài nhóm kit (PM hoặc trưởng phòng), thực hiện trên `_acceptance/trang-lo-trinh-doc-mot-phut/mau/hai-lo-trinh--1440.png` và `hai-lo-trinh--375.png`. Biên bản ghi họ nói «xếp lại hoặc chưa rõ», «chỗ cần sửa» và dòng «Dán vào Claude Code» nghĩa là gì, và không có chữ nào họ phải hỏi lại. Nếu biên bản có chữ họ phải hỏi thì verdict đổi sang FAIL.
+    - (operational-feasibility) Hợp đồng của vòng (`_acceptance/trang-lo-trinh-doc-mot-phut/contract.md`, mục AC-11) nói rõ «việc làm tiếp» mà thiếu câu mô tả (OKR N1) có được tính là trả lời đúng không, và danh sách chữ được phép là chữ nhóm kit (như «Claude Code», «feature-loop»). Có điều khoản đó thì tôi chấm được các vế còn lại.
+    - (spec-alignment) Kết quả đọc thử của ít nhất một người ngoài nhóm kit (ghi lại câu trả lời, kèm chữ họ phải hỏi nghĩa nếu có), làm trên chính hai ảnh hai-lo-trinh--1440.png và hai-lo-trinh--375.png ở _acceptance/trang-lo-trinh-doc-mot-phut/mau/. Nếu họ không hỏi nghĩa chữ nào, ví dụ «xếp lại hoặc chưa rõ» và «mốc đã qua còn việc chưa giao», thì verdict đổi thành PASS.
+    - (spec-alignment) Định nghĩa trong hợp đồng (contract.md, AC-11) về «người đọc không trong nhóm làm kit» và danh sách chữ được phép giữ (OKR, OneHub, Claude Code, mã việc). Có định nghĩa đó thì tôi chấm được «xếp lại» có thuộc nhóm phải giải thích hay không.
   human_override:  # chi nguoi ghi
 
 ### Lệnh suite (hồi quy)
 
 - cmd: bash tests/scripts/run-tests.sh --manh bash
-  run_id: minted-trang-lo-trinh-doc-mot-phut-SUITE-bash_tests_scripts_run_tests_sh_manh_bas-r1
+  run_id: minted-trang-lo-trinh-doc-mot-phut-SUITE-bash_tests_scripts_run_tests_sh_manh_bas-r2
   exit_code: 0
-  verified_at: 2026-10-03T15:50:54Z
+  verified_at: 2026-10-03T16:29:05Z
 
 - cmd: bash tests/scripts/run-tests.sh --manh mjs:1/3
-  run_id: minted-trang-lo-trinh-doc-mot-phut-SUITE-bash_tests_scripts_run_tests_sh_manh_mjs__c1a79c-r1
+  run_id: minted-trang-lo-trinh-doc-mot-phut-SUITE-bash_tests_scripts_run_tests_sh_manh_mjs__c1a79c-r2
   exit_code: 0
-  verified_at: 2026-10-03T15:50:54Z
+  verified_at: 2026-10-03T16:29:05Z
 
 - cmd: bash tests/scripts/run-tests.sh --manh mjs:2/3
-  run_id: minted-trang-lo-trinh-doc-mot-phut-SUITE-bash_tests_scripts_run_tests_sh_manh_mjs__376d1c-r1
+  run_id: minted-trang-lo-trinh-doc-mot-phut-SUITE-bash_tests_scripts_run_tests_sh_manh_mjs__376d1c-r2
   exit_code: 0
-  verified_at: 2026-10-03T15:50:54Z
+  verified_at: 2026-10-03T16:29:05Z
 
 - cmd: bash tests/scripts/run-tests.sh --manh mjs:3/3
-  run_id: minted-trang-lo-trinh-doc-mot-phut-SUITE-bash_tests_scripts_run_tests_sh_manh_mjs__b44527-r1
+  run_id: minted-trang-lo-trinh-doc-mot-phut-SUITE-bash_tests_scripts_run_tests_sh_manh_mjs__b44527-r2
   exit_code: 0
-  verified_at: 2026-10-03T15:50:54Z
+  verified_at: 2026-10-03T16:29:05Z
 
 - cmd: bash tests/hooks/run-tests.sh
-  run_id: minted-trang-lo-trinh-doc-mot-phut-SUITE-bash_tests_hooks_run_tests_sh-r1
+  run_id: minted-trang-lo-trinh-doc-mot-phut-SUITE-bash_tests_hooks_run_tests_sh-r2
   exit_code: 0
-  verified_at: 2026-10-03T15:50:54Z
+  verified_at: 2026-10-03T16:29:05Z
 
 - cmd: bash -c 'set -o pipefail; bash tests/plugins/run-tests.sh --manh vung:1 2>&1 | grep -E "FAIL|^Results:" | tail -n 40'
-  run_id: minted-trang-lo-trinh-doc-mot-phut-SUITE-bash_tests_plugins_run_tests_sh_manh_vun__d30305-r1
+  run_id: minted-trang-lo-trinh-doc-mot-phut-SUITE-bash_tests_plugins_run_tests_sh_manh_vun__d30305-r2
   exit_code: 0
-  verified_at: 2026-10-03T15:50:54Z
+  verified_at: 2026-10-03T16:29:05Z
 
 - cmd: bash -c 'set -o pipefail; bash tests/plugins/run-tests.sh --manh vung:2 2>&1 | grep -E "FAIL|^Results:" | tail -n 40'
-  run_id: minted-trang-lo-trinh-doc-mot-phut-SUITE-bash_tests_plugins_run_tests_sh_manh_vun__838f95-r1
+  run_id: minted-trang-lo-trinh-doc-mot-phut-SUITE-bash_tests_plugins_run_tests_sh_manh_vun__838f95-r2
   exit_code: 0
-  verified_at: 2026-10-03T15:50:54Z
+  verified_at: 2026-10-03T16:29:05Z
 
 - cmd: bash -c 'set -o pipefail; bash tests/plugins/run-tests.sh --manh vung:3 2>&1 | grep -E "FAIL|^Results:" | tail -n 40'
-  run_id: minted-trang-lo-trinh-doc-mot-phut-SUITE-bash_tests_plugins_run_tests_sh_manh_vun__513534-r1
+  run_id: minted-trang-lo-trinh-doc-mot-phut-SUITE-bash_tests_plugins_run_tests_sh_manh_vun__513534-r2
   exit_code: 0
-  verified_at: 2026-10-03T15:50:54Z
+  verified_at: 2026-10-03T16:29:05Z
 
 - cmd: bash tests/workflows/run-tests.sh
-  run_id: minted-trang-lo-trinh-doc-mot-phut-SUITE-bash_tests_workflows_run_tests_sh-r1
+  run_id: minted-trang-lo-trinh-doc-mot-phut-SUITE-bash_tests_workflows_run_tests_sh-r2
   exit_code: 0
-  verified_at: 2026-10-03T15:50:54Z
+  verified_at: 2026-10-03T16:29:05Z
 
 - cmd: node scripts/product-map.mjs --root . --check
-  run_id: minted-trang-lo-trinh-doc-mot-phut-SUITE-node_scripts_product_map_mjs_root_check-r1
+  run_id: minted-trang-lo-trinh-doc-mot-phut-SUITE-node_scripts_product_map_mjs_root_check-r2
   exit_code: 0
-  verified_at: 2026-10-03T15:50:54Z
+  verified_at: 2026-10-03T16:29:05Z
 
 ## Known limits
 
@@ -248,7 +249,7 @@ Hội đồng đề xuất cho E11 là FAIL (hai thành viên FAIL, một chưa 
 
 Eval không phân biệt (xanh cả ở bản hiện tại lẫn bản trước tính năng, nên chứng minh bộ đo chứ không chứng minh tính năng): E1, E2, E3, E4, E6, E8, E9, E10, E11b, E12 — cùng chạy trong `node tests/scripts/lo-trinh.test.mjs`. Cần viết lại để assert hành vi mới, hoặc xác nhận đây là lưới hồi quy có chủ ý.
 
-Ba eval E5, E7, E8b (`node tests/scripts/xem-trang-lo-trinh.test.mjs`) đều đỏ trên bản trước tính năng, tức là có phân biệt.
+Ba eval E5, E7, E8b (`node tests/scripts/xem-trang-lo-trinh.test.mjs`) đều đỏ trên bản trước tính năng, tức là có phân biệt. Riêng E5 có phân biệt nhờ các ca LTT, còn dòng ghim LT-94 của nó nằm ở bộ không-phân-biệt kể trên và lệnh của E5 không chạy bộ đó.
 
 ## Variance
 
@@ -257,3 +258,5 @@ none — every multi-run eval is uniform
 ## Iterations
 
 Round 1: không eval máy nào đỏ (13 eval máy xanh, 11 lệnh suite xanh). E11 (judgment) hội đồng đề xuất không đạt, nên verdict PENDING-JUDGMENT, người quyết ở Cổng 2. Máy không trình Cổng 2 trên lượt này: bốn finding trong hợp đồng (liên kết hàng kế khi mã trùng · LT-90/LT-91 đo có-mặt thay vì đúng-hàng · LT-95 chạy trên kho không mốc) và phán quyết hội đồng được sửa ở lượt 2 (sổ quyết định S4-r1).
+
+Round 2: không eval máy nào đỏ (13 eval máy xanh, 10 lệnh suite xanh), nhưng còn bốn finding trong hợp đồng nên verdict REJECT. Ba finding (AC-5): E5 ghim dòng «PASS: LT-94» mà lệnh của nó không in, nên vế tĩnh của dải mốc được chấm từ dòng tổng kết chứ không từ dòng ghim. Một finding (AC-1): liên kết «Làm tiếp» vẫn có thể trỏ nhầm hàng khi hai hàng trùng mã mà hàng trùng đứng trước đang làm dở. E11 (judgment) hội đồng chuyển từ không đạt sang chưa chắc, chờ phiếu đọc của người ngoài nhóm kit. Returned to implementation.

diff --git a/_acceptance/trang-lo-trinh-doc-mot-phut/contract.md b/_acceptance/trang-lo-trinh-doc-mot-phut/contract.md
@@ -28,7 +28,7 @@ máy lọt ra mặt người. Cổng Đáng 03/10 ký build: thay lớp vẽ, gi
 - AC-2: Given một lộ trình có cờ, When vẽ, Then mục của lộ trình mở bằng danh sách chỗ cần sửa có đúng các cờ của lộ trình theo đúng thứ tự (so với `kq.co`, đẳng thức sau khi dịch) rồi mỗi từ trạng thái máy không hiểu một ô (gom các hàng ghi từ đó), mỗi chỗ gắn được một hàng là một liên kết bọc trọn ô tới neo của ĐÚNG hàng đó, và cờ thẻ start vẫn bằng danh sách cờ gốc của lớp phân tích (ca LT-05-the đọc danh sách chỗ lệch thay khối «Cờ» cũ).
 - AC-3: Given một lộ trình có hàng đã giao và hàng chưa giao, When vẽ, Then bảng «Việc còn mở (n)» chứa đúng các hàng chưa thuộc nhóm đã giao, các hàng đã giao nằm trong một `<details>` không mở sẵn có tiêu đề «N việc đã giao», hai bảng cộng lại bằng mọi hàng, mỗi hàng có neo `lt<i>-h-<mã>`, «Cần xong trước» là liên kết tới neo hàng, hàng không hồ sơ ghi «theo ghi chép, chưa có hồ sơ», và một cột không có dữ liệu ở hàng nào của bảng thì không có trong bảng đó (Mã và Trạng thái luôn có).
 - AC-4: Given kho có hồ sơ không thuộc lộ trình nào (một hoặc nhiều lộ trình), When vẽ, Then danh sách các hồ sơ đó xuất hiện đúng MỘT lần trên trang, trong một `<details>` không mở sẵn ở cuối trang có tiêu đề «N hồ sơ không thuộc kế hoạch nào», N bằng số hồ sơ không lộ trình nào trỏ tới; không có hồ sơ nào như thế thì khối vắng.
-- AC-5: Given một lộ trình có mốc, When vẽ và mở trang trên Chrome với ngày đóng băng, Then dải mốc sắp theo ngày, mốc kế tiếp là mốc đầu tiên có ngày ≥ hôm nay và ô «Mốc kế tiếp» của thẻ ghi tên + ngày + «còn N ngày» (hoặc «hôm nay») của đúng mốc đó, mốc đã qua ghi «đã qua», mốc đã qua còn việc gắn chưa giao ghi «đã qua — còn việc chưa giao» và ô thẻ nối «· k mốc đã qua còn việc chưa giao», mốc không gắn việc mang nhãn «chưa gắn việc» và tiêu đề ghi «k/N mốc chưa gắn việc nào»; tắt script thì ô thẻ ghi «Xem dải mốc bên dưới» và dải mốc vẫn có ngày; HTML không chứa ngày vẽ.
+- AC-5: Given một lộ trình có mốc, When vẽ và mở trang trên Chrome với ngày đóng băng, Then dải mốc sắp theo ngày, mốc kế tiếp là mốc đầu tiên có ngày ≥ hôm nay và ô «Mốc kế tiếp» của thẻ ghi tên + ngày + «còn N ngày» (hoặc «hôm nay») của đúng mốc đó, mốc đã qua ghi «đã qua», mốc đã qua còn việc gắn chưa giao ghi «đã qua — còn việc chưa giao» và ô thẻ nối tên mốc đó (nhiều mốc thì số mốc và mốc sớm nhất), mốc ghi ngày không đọc được thì ô thẻ giữ chữ dự phòng, mốc không gắn việc mang nhãn «chưa gắn việc» và tiêu đề ghi «k/N mốc chưa gắn việc nào»; tắt script thì ô thẻ ghi «Xem dải mốc bên dưới» và dải mốc vẫn có ngày; HTML không chứa ngày vẽ.
 - AC-6: Given cùng kho, When vẽ hai lần dưới hai đồng hồ cách nhau ba ngày (tiến trình con chặn `Date`), Then hai trang giống từng byte, và `product-map.mjs --check` vẫn bắt trang bị đổi byte / hồ sơ đổi / trang bị xoá (ca LT-06, LT-06-do xanh).
 - AC-7: Given năm trạng thái (hai lộ trình · một lộ trình · tệp hỏng · không chỗ lệch · kế hoạch rỗng) dựng từ fixture crm trong lượt, When đo trên Chrome thật ở 1440×900, 768×1024, 375×812, sáng và tối, Then ở MỌI ô: đáy ba dòng Làm tiếp / Cần sửa / Mốc kế tiếp của mọi thẻ (thẻ lỗi: đáy thẻ) ≤ chiều cao màn · không tràn ngang · ≤ 6 cỡ chữ · cỡ h1 > h2 > h3 · tương phản chữ ≥ 4,5 (chữ lớn ≥ 3) · `summary` và liên kết chỗ lệch cao ≥ 44px; và ở 1440 trang hai lộ trình (kho thử mang 132 hồ sơ ngoài kế hoạch như crm lúc audit) cao ≤ 1/3 trang do bộ vẽ 2.21.0 vẽ cùng kho, đo trong cùng phiên Chrome.
 - AC-8: Given bảng việc, When vẽ, Then mỗi ô `td` mang `data-nhan` bằng đúng tiêu đề cột của nó, và ở 375 mỗi hàng là một khối có nhãn cột đứng trên giá trị (không tràn ngang — đo ở AC-7); When mở trên Chrome ở 1440, Then cuộn qua bảng việc còn mở thì tiêu đề cột vẫn trong khung nhìn, lệnh mở có `user-select: all`, và mở trang tại neo một hàng thì hàng đó có viền nhấn.
